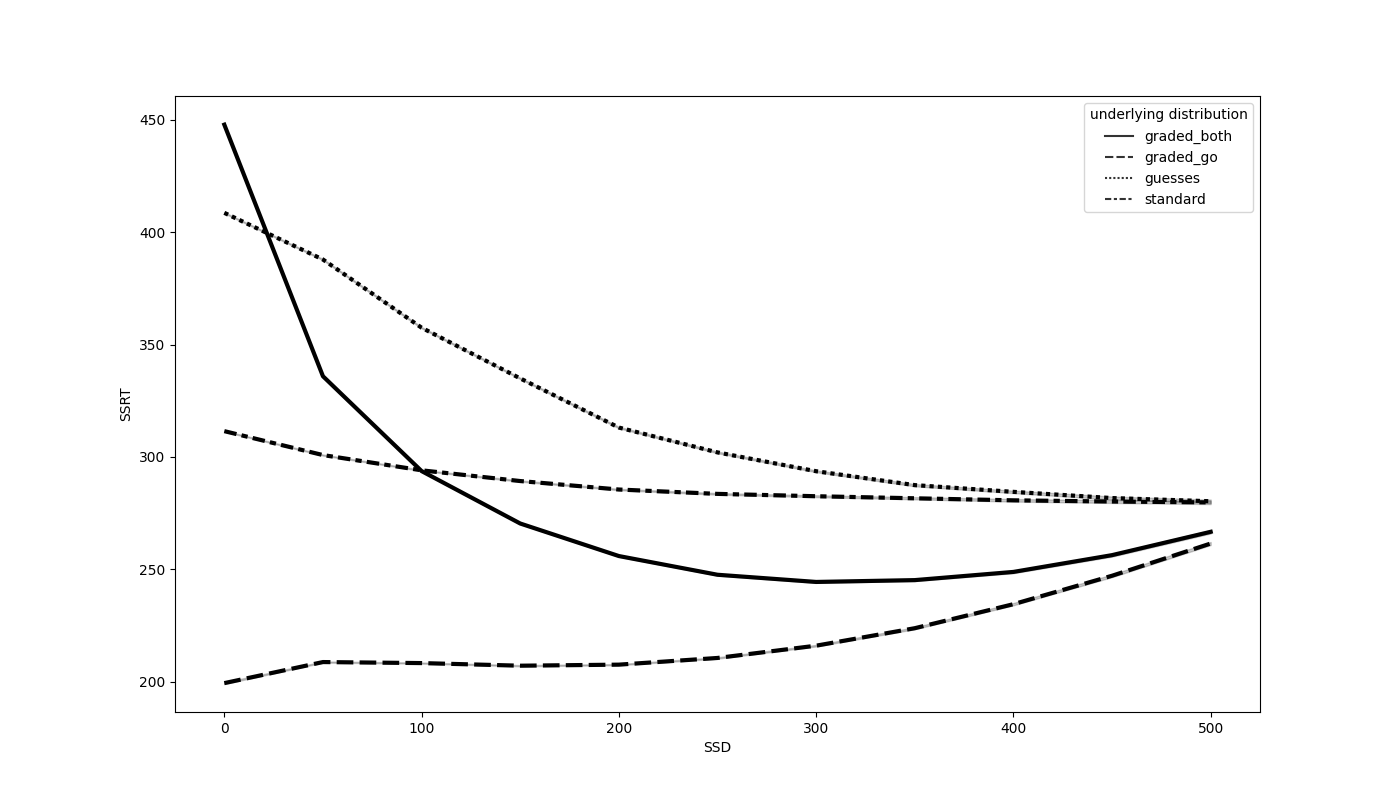
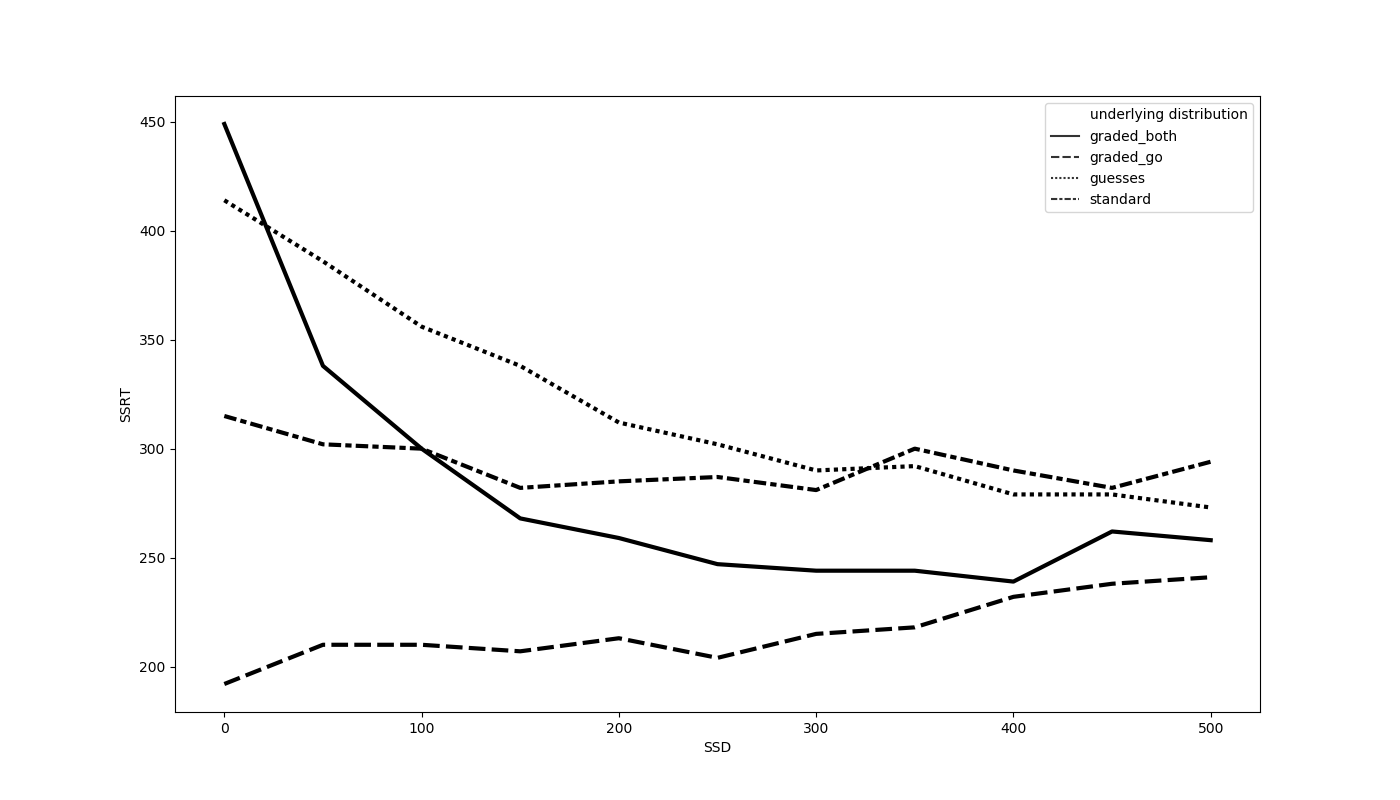
fix fguess sampling for tracking, set up SSRT estimates

diff --git a/scripts/compute_indiv_SSRTs.py b/scripts/compute_indiv_SSRTs.py
@@ -18,7 +18,7 @@ def get_args():
                         help='subjects to run simulations on', required=True)
     parser.add_argument('--abcd_dir', default='../abcd_data',
                         help='location of ABCD data')
-    parser.add_argument('--sim_dir',
+    parser.add_argument('--sim_dir_base',
                         default='../simulated_data/individual_data',
                         help='location to save simulated data')
     parser.add_argument('--out_dir',
@@ -38,7 +38,11 @@ def get_args():
     return(args)
 
 
-def generate_out_df(data, SSD_guess_dict, graded_go_dict, guess_sampler):
+def generate_out_df(data,
+                    SSD_guess_dict,
+                    graded_go_dict,
+                    guess_sampler,
+                    tracked_data):
     info = []
     ssrtmodel = SSRTmodel(model='replacement')
     goRTs = data.loc[data.goRT.notnull(), 'goRT'].values
@@ -74,6 +78,13 @@ def generate_out_df(data, SSD_guess_dict, graded_go_dict, guess_sampler):
     curr_info = [v for v in curr_metrics.values()] +\
                 [-np.inf, np.nan, np.nan]
     info.append(curr_info)
+
+    # get metrics for tracking-based data
+    # double kludge, -inf for fixed, +inf for tracking
+    tracked_metrics = ssrtmodel.fit_transform(tracked_data)
+    tracked_info = [v for v in tracked_metrics.values()] +\
+                   [np.inf, np.nan, np.nan]
+    info.append(tracked_info)
 
     return pd.DataFrame(
         info,
@@ -164,6 +175,8 @@ if __name__ == '__main__':
     # CALCULATE SSRT
     SSDs = get_SSDs(args)
     issue_subs = []
+
+    fixed_sim_dir = args.sim_dir_base + '_fixed'
     for sub in args.subjects:
         try:
             params = {
@@ -177,14 +190,16 @@ if __name__ == '__main__':
                     SSD,
                     sub_params=params)
 
-            for data_file in glob(path.join(args.sim_dir, '*%s*.csv' % sub)):
+            for data_file in glob(path.join(fixed_sim_dir, '*%s*.csv' % sub)):
                 sim_type = path.basename(
                     data_file
                     ).replace('.csv', '')
+                tracked_data_file = data_file.replace('fixed', 'tracking')
                 out_df = generate_out_df(pd.read_csv(data_file),
                                          SSD_guess_dict,
                                          graded_go_dict,
-                                         sample_exgauss)
+                                         sample_exgauss,
+                                         pd.read_csv(tracked_data_file))
                 out_df.to_csv(path.join(args.out_dir, '%s.csv' % sim_type))
         except KeyError as err:
             print("KeyError error for sub {0}: {1}".format(sub, err))

diff --git a/scripts/get_individual_results.py b/scripts/get_individual_results.py
@@ -38,7 +38,7 @@ def get_args():
 
 def weight_ssrts(sub_df, ABCD_SSD_dists):
     sub_df = sub_df.copy()
-    indiv_SSRT = np.zeros((1, 5))
+    indiv_SSRT = np.zeros((1, 6))
     sub = sub_df['NARGUID'].unique()[0]
     sub_dists = ABCD_SSD_dists.query("NARGUID=='%s'" % sub)
     for SSD in sub_dists.SSDDur:
@@ -47,9 +47,16 @@ def weight_ssrts(sub_df, ABCD_SSD_dists):
                                ].values[0]
         weight = sub_dists.loc[sub_dists.SSDDur == SSD, 'proportion'].values
         indiv_SSRT[0][:4] += ssd_SSRTs * weight
+    # append fixed, tracked
     indiv_SSRT[0][4] = sub_df.loc[sub_df.SSD == -np.inf, 'standard'].values[0]
+    indiv_SSRT[0][5] = sub_df.loc[sub_df.SSD == np.inf, 'standard'].values[0]
     return pd.DataFrame(indiv_SSRT,
-                        columns=['standard', 'guesses', 'graded_go', 'graded_both', 'fixed'])
+                        columns=['standard',
+                                 'guesses',
+                                 'graded_go',
+                                 'graded_both',
+                                 'fixed',
+                                 'tracking'])
 
 
 # In[3]:

diff --git a/scripts/utils.py b/scripts/utils.py
@@ -76,7 +76,8 @@ class SimulateData():
                                           stop_init_time=stop_init_time)
             # if it's a guess trial, guess, otherwise accumulate
             if np.random.rand() < self._p_guess_stop_dict[SSD]:
-                go_rt = params['guess_function'](1)
+                # sample and grab the single rt
+                go_rt = params['guess_function'](1)[0]
             else:
                 go_rt = self._accumulate(trial,
                                          trial['mu_go'],
